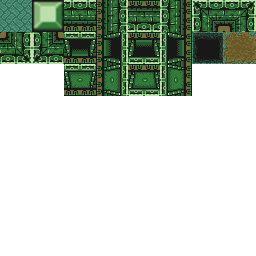
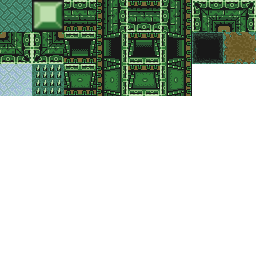
Added support for ICE and SPIKES

Changed region(s): [[0.0, 0.25, 0.25, 0.375]]

diff --git a/src/level.c b/src/level.c
@@ -165,7 +165,7 @@ static void generate_rooms(Level* level, int x, int y, Dir came_from, int depth)
 
     room->valid = true;
     room->discovered = false;
-    room->color = COLOR((rand() % 159) + 96,(rand() % 159) + 96,(rand() % 159) + 96);
+    room->color = COLOR_TINT_NONE;//COLOR((rand() % 159) + 96,(rand() % 159) + 96,(rand() % 159) + 96);
     room->index = level_get_room_index(x,y);
 
     printf("adding room, depth: %d\n",depth);
@@ -526,29 +526,6 @@ void generate_walls(Level* level)
     }
 }
 
-void level_print_room(Room* room)
-{
-    RoomFileData* room_data = &room_list[room->layout];
-
-    for(int j = 0; j < ROOM_TILE_SIZE_Y; ++j)
-    {
-        for(int i = 0; i < ROOM_TILE_SIZE_X; ++i)
-        {
-            TileType* tile = (TileType*)&room_data->tiles[i][j];
-            switch(*tile)
-            {
-                case TILE_FLOOR:   printf("."); break;
-                case TILE_PIT:     printf("p"); break;
-                case TILE_BOULDER: printf("b"); break;
-                case TILE_MUD:     printf("m"); break;
-                default: printf("%c", *tile+65);break;
-            }
-        }
-        printf("\n");
-    }
-    printf("\n");
-}
-
 void level_handle_room_collision(Room* room, Physics* phys, int entity_type)
 {
     if(!room)
@@ -742,10 +719,13 @@ uint8_t level_get_tile_sprite(TileType tt)
     SpriteTileType sprite = SPRITE_TILE_MAX;
     switch(tt)
     {
-        case TILE_FLOOR:   sprite = SPRITE_TILE_FLOOR; break;
-        case TILE_PIT:     sprite = SPRITE_TILE_PIT;   break;
-        case TILE_BOULDER: sprite = SPRITE_TILE_BLOCK; break;
-        case TILE_MUD:     sprite = SPRITE_TILE_MUD;   break;
+        case TILE_FLOOR:         sprite = SPRITE_TILE_FLOOR;  break;
+        case TILE_PIT:           sprite = SPRITE_TILE_PIT;    break;
+        case TILE_BOULDER:       sprite = SPRITE_TILE_BLOCK;  break;
+        case TILE_MUD:           sprite = SPRITE_TILE_MUD;    break;
+        case TILE_ICE:           sprite = SPRITE_TILE_ICE;    break;
+        case TILE_SPIKES:        sprite = SPRITE_TILE_SPIKES; break;
+        case TILE_TIMED_SPIKES:  sprite = SPRITE_TILE_SPIKES; break;
         default: break;
     }
     return (uint8_t)sprite;
@@ -1206,6 +1186,9 @@ const char* get_tile_name(TileType tt)
         case TILE_PIT: return "Pit";
         case TILE_BOULDER: return "Boulder";
         case TILE_MUD: return "Mud";
+        case TILE_ICE: return "Ice";
+        case TILE_SPIKES: return "Spikes";
+        case TILE_TIMED_SPIKES: return "Timed Spikes";
     }
     return "?";
 }

diff --git a/src/player.c b/src/player.c
@@ -925,6 +925,7 @@ void player_update(Player* p, float dt)
     Room* room = level_get_room_by_index(&level, p->curr_room);
 
     float mud_factor = 1.0;
+    float friction_factor = 1.0;
 
     if(!room)
     {
@@ -937,9 +938,17 @@ void player_update(Player* p, float dt)
 
         if(tt == TILE_MUD)
         {
-            mud_factor = 0.4;
-            if(p->phys.pos.z > 0.0)
-                mud_factor = 0.8;
+            if(p->phys.pos.z == 0.0)
+                mud_factor = 0.4;
+        }
+        else if(tt == TILE_ICE)
+        {
+            mud_factor = 0.6;
+            friction_factor = 0.04;
+        }
+        else if(tt == TILE_SPIKES)
+        {
+            player_hurt(p,1);
         }
 
         if(tt == TILE_PIT && p->phys.pos.z == 0.0 && !p->phys.falling)
@@ -1106,8 +1115,8 @@ void player_update(Player* p, float dt)
         float vel_magn_x = ABS(p->phys.vel.x);
         float vel_magn_y = ABS(p->phys.vel.y);
 
-        float applied_friction_x = MIN(vel_magn_x,p->phys.base_friction);
-        float applied_friction_y = MIN(vel_magn_y,p->phys.base_friction);
+        float applied_friction_x = MIN(vel_magn_x,p->phys.base_friction*friction_factor);
+        float applied_friction_y = MIN(vel_magn_y,p->phys.base_friction*friction_factor);
 
         if(!left && !right)
         {

diff --git a/src/level.h b/src/level.h
@@ -32,7 +32,9 @@ typedef enum
     TILE_PIT,
     TILE_BOULDER,
     TILE_MUD,
-
+    TILE_ICE,
+    TILE_SPIKES,
+    TILE_TIMED_SPIKES,
     TILE_MAX
 } TileType;
 
@@ -67,8 +69,8 @@ typedef enum
     SPRITE_TILE_DOOR_LEFT,
     SPRITE_TILE_PIT,
     SPRITE_TILE_MUD,
-    SPRITE_TILE_RSV_0,
-    SPRITE_TILE_RSV_1,
+    SPRITE_TILE_ICE,
+    SPRITE_TILE_SPIKES,
     SPRITE_TILE_DOOR_UP_CLOSED,
     SPRITE_TILE_DOOR_RIGHT_CLOSED,
     SPRITE_TILE_DOOR_DOWN_CLOSED,
@@ -148,7 +150,6 @@ void level_get_rand_floor_tile(Room* room, Vector2i* tile_coords, Vector2f* tile
 void level_draw_room(Room* room, RoomFileData* room_data, float xoffset, float yoffset);
 void room_draw_walls(Room* room);
 void level_print(Level* level);
-void level_print_room(Room* room);
 void level_sort_walls(Wall* walls, int wall_count, float x, float y, float radius);
 void level_handle_room_collision(Room* room, Physics* phys, int entity_type);
 Room* level_get_room(Level* level, int x, int y);
